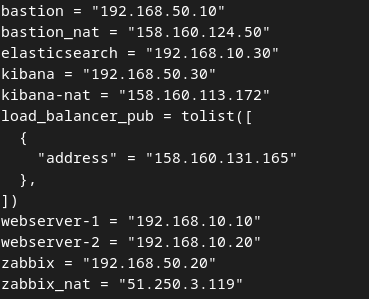
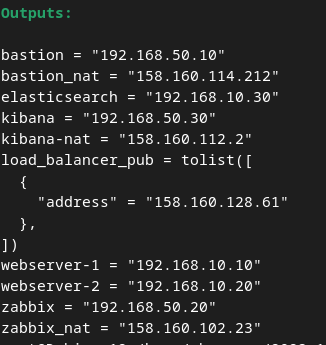
19

diff --git a/README.md b/README.md
@@ -6,13 +6,13 @@
 [Полное задание к дипломной работе:]{https://github.com/Alexandrmw/Diplom-FSYS19/blob/main/Task.md#%D0%B7%D0%B0%D0%B4%D0%B0%D1%87%D0%B0)  
 
   
-## Доступ к сайту http://158.160.131.165/  
+## Доступ к сайту http://158.160.128.61/  
 
-## Доступ к Zabbix http://51.250.3.119/
+## Доступ к Zabbix http://158.160.102.23/
 Логин:   admin  
 Пароль:  zabbix  
 
-## Доступ к Elastic http://158.160.113.172:5601/  
+## Доступ к Elastic http://158.160.112.2:5601/  
 
 ---
 # Подготовка к развёртке
@@ -60,6 +60,7 @@
 <img src = "img/005_01.png" width = 100%>   
   
 -- снимки дисков осуществляются по расписанию (файл /terraform/snapshot.tf)  
+(С предыдущего варианта снимки, т.к. машины выполнены перываемыми, пришлось переделать инфраструктуру)
 
 <img src = "img/006_01.png" width = 100%>   
 
@@ -71,6 +72,7 @@
     preemptible = true
   }
 ```
+(Сейчас выставленно в false)
 
 ## Донастройка осуществляется ansibl-ом из папки ansible:  
   
@@ -79,15 +81,28 @@
 - Также в папке лежит конфиг /ansible/ansible.cfg  
   
 - Прописываем ранее сгенерированный ssh-ключ на хостовую машину: *ssh-add ../terraform/keys/id_rsa*  
+   
+<img src = "img/001_04.png" width = 100%>  
   
 - Далее пробуем пинговать машины из списка хостов: *ansible all -m ping*  
-На запрос отпечатка отвечаем **yes**  
+На запрос отпечатка отвечаем **yes**  (С первого раза не все машины пингуются со второго - все)
+
+<img src = "img/002_04.png" width = 100%>   
   
 - Устанавливаем пакеты на хостовую машину:  
 *ansible-playbook first_playbook.yml*  
   
+<img src = "img/004_04.png" width = 100%>   
+  
 - Далее устанавливаем необходимые пакеты и переносим сайт командой  
 *ansible-playbook sekond_playbook.yml --vault-password-file pass -v*
+  
+<img src = "img/003_04.png" width = 100%>  
+   
+Успешное выполнение плэйбука  
+  
+<img src = "img/005_04.png" width = 100%>  
+  
 
 # В результате
 ## установится сайт: 
